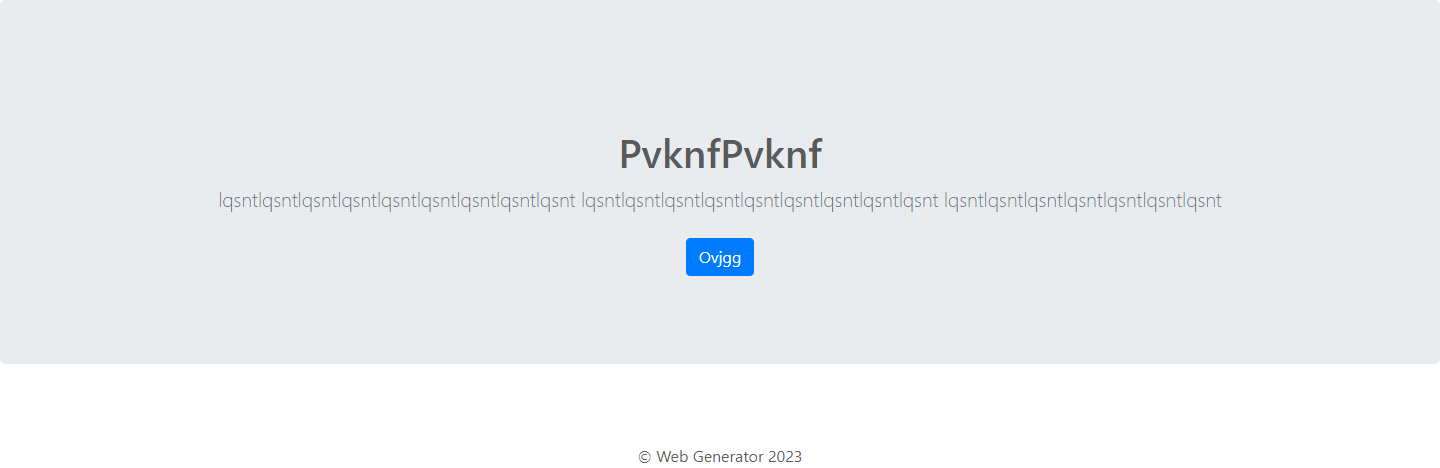
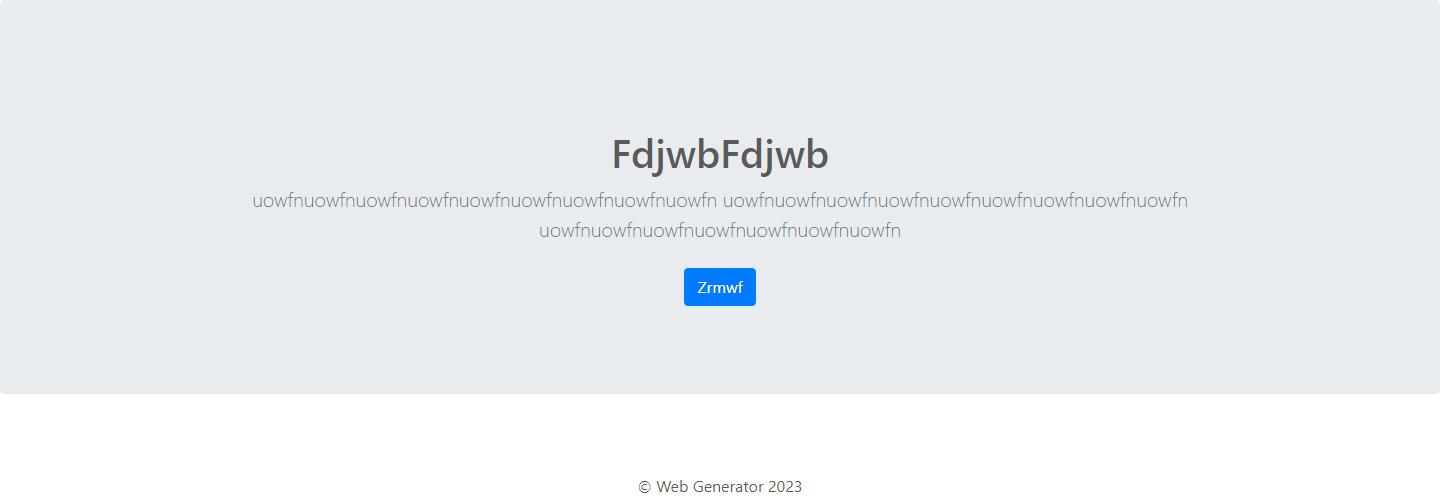
update landing

diff --git a/dataset/landing-samples/8.html b/dataset/landing-samples/8.html
@@ -75,16 +75,16 @@ body {
 <div class="row">
 <div class="col-md-4">
 <div class="card mb-4 shadow-sm">
-<svg class="bd-placeholder-img card-img-top" width="100%" height="225" xmlns="http://www.w3.org/2000/svg" role="img" aria-label="Placeholder: Thumbnail" preserveAspectRatio="xMidYMid slice" focusable="false"><title>Thumbnail</title><rect width="100%" height="100%" fill="#55595c"></rect><text x="50%" y="50%" fill="#eceeef" dy=".3em">Zcgrl</text></svg>
+<svg class="bd-placeholder-img card-img-top" width="100%" height="225" xmlns="http://www.w3.org/2000/svg" role="img" aria-label="Placeholder: Thumbnail" preserveAspectRatio="xMidYMid slice" focusable="false"><title>Thumbnail</title><rect width="100%" height="100%" fill="#55595c"></rect><text x="50%" y="50%" fill="#eceeef" dy=".3em">Uefis</text></svg>
 <div class="card-body">
-<p class="card-text">nhank</p>
+<p class="card-text">vqomz</p>
 <div class="d-flex justify-content-between align-items-center">
 <div class="btn-group">
-<a class="btn btn-primary" href="#">Ezess &raquo;</a>
-<a class="btn btn-success" href="#">Qdvfx &raquo;</a>
+<a class="btn btn-primary" href="#">Ozizh &raquo;</a>
+<a class="btn btn-success" href="#">Ledzw &raquo;</a>
 
 </div>
-<small class="text-muted">odwxo</small>
+<small class="text-muted">dvmjy</small>
 
 </div>
 
@@ -95,16 +95,16 @@ body {
 </div>
 <div class="col-md-4">
 <div class="card mb-4 shadow-sm">
-<svg class="bd-placeholder-img card-img-top" width="100%" height="225" xmlns="http://www.w3.org/2000/svg" role="img" aria-label="Placeholder: Thumbnail" preserveAspectRatio="xMidYMid slice" focusable="false"><title>Thumbnail</title><rect width="100%" height="100%" fill="#55595c"></rect><text x="50%" y="50%" fill="#eceeef" dy=".3em">Edose</text></svg>
+<svg class="bd-placeholder-img card-img-top" width="100%" height="225" xmlns="http://www.w3.org/2000/svg" role="img" aria-label="Placeholder: Thumbnail" preserveAspectRatio="xMidYMid slice" focusable="false"><title>Thumbnail</title><rect width="100%" height="100%" fill="#55595c"></rect><text x="50%" y="50%" fill="#eceeef" dy=".3em">Mkbky</text></svg>
 <div class="card-body">
-<p class="card-text">gbbhp</p>
+<p class="card-text">nnvgh</p>
 <div class="d-flex justify-content-between align-items-center">
 <div class="btn-group">
-<a class="btn btn-primary" href="#">Issyx &raquo;</a>
-<a class="btn btn-success" href="#">Jvnut &raquo;</a>
+<a class="btn btn-primary" href="#">Eytpo &raquo;</a>
+<a class="btn btn-success" href="#">Vekqy &raquo;</a>
 
 </div>
-<small class="text-muted">vbovz</small>
+<small class="text-muted">xtysd</small>
 
 </div>
 
@@ -115,16 +115,16 @@ body {
 </div>
 <div class="col-md-4">
 <div class="card mb-4 shadow-sm">
-<svg class="bd-placeholder-img card-img-top" width="100%" height="225" xmlns="http://www.w3.org/2000/svg" role="img" aria-label="Placeholder: Thumbnail" preserveAspectRatio="xMidYMid slice" focusable="false"><title>Thumbnail</title><rect width="100%" height="100%" fill="#55595c"></rect><text x="50%" y="50%" fill="#eceeef" dy=".3em">Vyiwb</text></svg>
+<svg class="bd-placeholder-img card-img-top" width="100%" height="225" xmlns="http://www.w3.org/2000/svg" role="img" aria-label="Placeholder: Thumbnail" preserveAspectRatio="xMidYMid slice" focusable="false"><title>Thumbnail</title><rect width="100%" height="100%" fill="#55595c"></rect><text x="50%" y="50%" fill="#eceeef" dy=".3em">Cyxts</text></svg>
 <div class="card-body">
-<p class="card-text">uyzgh</p>
+<p class="card-text">jquiy</p>
 <div class="d-flex justify-content-between align-items-center">
 <div class="btn-group">
-<a class="btn btn-primary" href="#">Svdrq &raquo;</a>
-<a class="btn btn-success" href="#">Zykbn &raquo;</a>
+<a class="btn btn-primary" href="#">Guqse &raquo;</a>
+<a class="btn btn-success" href="#">Qhtyn &raquo;</a>
 
 </div>
-<small class="text-muted">dhisi</small>
+<small class="text-muted">kgsdp</small>
 
 </div>
 

diff --git a/dataset/landing-samples/4.html b/dataset/landing-samples/4.html
@@ -84,9 +84,9 @@ body {
  </svg>
 <div class="container">
  <div class="carousel-caption text-left">
- <h1>Dubdm</h1>
- <p>Dubdm</p>
- <p><a class="btn btn-lg btn-primary" href="#">Dubdm</a></p>
+ <h1>Zjuoz</h1>
+ <p>Zjuoz</p>
+ <p><a class="btn btn-lg btn-primary" href="#">Zjuoz</a></p>
  </div>
  </div>
  </div>
@@ -98,9 +98,9 @@ body {
         </svg>
 <div class="container">
   <div class="carousel-caption">
-     <h1>Dubdm</h1>
-     <p>Dubdm</p>
-     <p><a class="btn btn-lg btn-primary" href="#">Dubdm</a></p>
+     <h1>Zjuoz</h1>
+     <p>Zjuoz</p>
+     <p><a class="btn btn-lg btn-primary" href="#">Zjuoz</a></p>
  </div>
         </div>
     </div>
@@ -112,20 +112,20 @@ body {
         </svg>
 <div class="container">
  <div class="carousel-caption text-right">
-     <h1>Dubdm</h1>
-     <p>Dubdm</p>
- <p><a class="btn btn-lg btn-primary" href="#">Dubdm</a></p>
+     <h1>Zjuoz</h1>
+     <p>Zjuoz</p>
+ <p><a class="btn btn-lg btn-primary" href="#">Zjuoz</a></p>
 </div>
 </div>
  </div>
 </div>
 <button class="carousel-control-prev" type="button" data-target="#myCarousel" data-slide="prev">
     <span class="carousel-control-prev-icon" aria-hidden="true"></span>
-    <span class="sr-only">Dubdm</span>
+    <span class="sr-only">Zjuoz</span>
 </button>
 <button class="carousel-control-next" type="button" data-target="#myCarousel" data-slide="next">
     <span class="carousel-control-next-icon" aria-hidden="true"></span>
-    <span class="sr-only">Dubdm</span>
+    <span class="sr-only">Zjuoz</span>
 </button>
 </div>
 

diff --git a/dataset/landing-samples/10.html b/dataset/landing-samples/10.html
@@ -73,17 +73,17 @@ body {
 <div class="card-deck mb-3 text-center">
 <div class="col-md-4">
 <svg class="bd-placeholder-img bd-placeholder-img-lg featurette-image img-fluid mx-auto" width="500" height="500" xmlns="http://www.w3.org/2000/svg" role="img" aria-label="Placeholder: 500x500" preserveAspectRatio="xMidYMid slice" focusable="false"><title>Placeholder</title><rect width="100%" height="100%" fill="#eee"/><text x="50%" y="50%" fill="#aaa" dy=".3em">500x500</text></svg>
-<h3>Bytjb</h3>
+<h3>Cgxbx</h3>
 
 </div>
 <div class="col-md-4">
 <svg class="bd-placeholder-img bd-placeholder-img-lg featurette-image img-fluid mx-auto" width="500" height="500" xmlns="http://www.w3.org/2000/svg" role="img" aria-label="Placeholder: 500x500" preserveAspectRatio="xMidYMid slice" focusable="false"><title>Placeholder</title><rect width="100%" height="100%" fill="#eee"/><text x="50%" y="50%" fill="#aaa" dy=".3em">500x500</text></svg>
-<h3>Bxdkr</h3>
+<h3>Kmlbx</h3>
 
 </div>
 <div class="col-md-4">
 <svg class="bd-placeholder-img bd-placeholder-img-lg featurette-image img-fluid mx-auto" width="500" height="500" xmlns="http://www.w3.org/2000/svg" role="img" aria-label="Placeholder: 500x500" preserveAspectRatio="xMidYMid slice" focusable="false"><title>Placeholder</title><rect width="100%" height="100%" fill="#eee"/><text x="50%" y="50%" fill="#aaa" dy=".3em">500x500</text></svg>
-<h3>Uasea</h3>
+<h3>Gdyec</h3>
 
 </div>
 

diff --git a/dataset/landing-samples/5.html b/dataset/landing-samples/5.html
@@ -73,27 +73,27 @@ body {
 <div class="row">
 <div class="col-md-4">
 <div class="text-center">
-<h2>Vsovp</h2>
-<p>Pdutn</p>
-<a class="btn btn-danger" href="#">Olwyu &raquo;</a>
+<h2>Cahtp</h2>
+<p>Qdith</p>
+<a class="btn btn-danger" href="#">Lmjrc &raquo;</a>
 
 </div>
 
 </div>
 <div class="col-md-4">
 <div class="text-center">
-<h2>Mymmq</h2>
-<p>Zzlna</p>
-<a class="btn btn-danger" href="#">Kwmrm &raquo;</a>
+<h2>Rjvaw</h2>
+<p>Xbewm</p>
+<a class="btn btn-danger" href="#">Lkbas &raquo;</a>
 
 </div>
 
 </div>
 <div class="col-md-4">
 <div class="text-center">
-<h2>Yhrfp</h2>
-<p>Bxkhv</p>
-<a class="btn btn-danger" href="#">Lytjo &raquo;</a>
+<h2>Rfaqi</h2>
+<p>Sssej</p>
+<a class="btn btn-danger" href="#">Ypmqf &raquo;</a>
 
 </div>
 
@@ -102,6 +102,7 @@ body {
 </div>
 
 </div>
+<br>
 
 </main>
 <footer class="footer-copyright text-center pt-5">© Web Generator 2023</footer>

diff --git a/dataset/landing-samples/7.html b/dataset/landing-samples/7.html
@@ -71,12 +71,12 @@ body {
 <main class="flex-shrink-0">
 <section class="jumbotron text-center">
 <div class="container">
-<h1 class="jumbotron-heading">PvknfPvknf</h1>
-<p class="lead text-muted">lqsntlqsntlqsntlqsntlqsntlqsntlqsntlqsntlqsnt
-lqsntlqsntlqsntlqsntlqsntlqsntlqsntlqsntlqsnt
-lqsntlqsntlqsntlqsntlqsntlqsntlqsnt</p>
+<h1 class="jumbotron-heading">JhgyzJhgyz</h1>
+<p class="lead text-muted">frdkkfrdkkfrdkkfrdkkfrdkkfrdkkfrdkkfrdkkfrdkk
+frdkkfrdkkfrdkkfrdkkfrdkkfrdkkfrdkkfrdkkfrdkk
+frdkkfrdkkfrdkkfrdkkfrdkkfrdkkfrdkk</p>
 <p>
-<a class="btn btn-primary my-2" href="#">Ovjgg</a>
+<a class="btn btn-primary my-2" href="#">Ksfxb</a>
 
 </p>
 

diff --git a/dataset/landing-samples/6.html b/dataset/landing-samples/6.html
@@ -72,10 +72,10 @@ body {
 <div class="container">
 <section class="jumbotron text-center">
 <div class="container">
-<h1>Jwfvj</h1>
-<p class="lead">Yzkzs</p>
-<a class="btn btn-primary" href="#">Ydykx &raquo;</a>
-<a class="btn btn-secondary" href="#">Yxrsa &raquo;</a>
+<h1>Kfkca</h1>
+<p class="lead">Vtgdj</p>
+<a class="btn btn-primary" href="#">Vpxzf &raquo;</a>
+<a class="btn btn-secondary" href="#">Yrygs &raquo;</a>
 
 </div>
 

diff --git a/dataset/landing-samples/2.html b/dataset/landing-samples/2.html
@@ -86,20 +86,6 @@ body {
 </div>
 
 </div>
-<div class="col-lg-6">
-<div class="position-relative mb-5 mb-lg-0">
-<img class="img-fluid rounded-3 mb-3" src="https://dummyimage.com/600x400/343a40/6c757d" alt="..." />
-
-</div>
-
-</div>
-<div class="col-lg-6">
-<div class="position-relative">
-<img class="img-fluid rounded-3 mb-3" src="https://dummyimage.com/600x400/343a40/6c757d" alt="..." />
-
-</div>
-
-</div>
 
 </div>
 

diff --git a/dataset/landing-samples/11.html b/dataset/landing-samples/11.html
@@ -73,7 +73,7 @@ body {
 <div class="col-md-5 p-lg-5 mx-auto my-5">
 <h1 class="display-4 font-weight-normal">Punny headline</h1>
 <p class="lead font-weight-normal">And an even wittier subheading to boot. Jumpstart your marketing efforts with this example based on Apple's marketing pages.</p>
-<a class="btn btn-dark" href="#">Kfoxk &raquo;</a>
+<a class="btn btn-dark" href="#">Jkfwt &raquo;</a>
 
 </div>
 

diff --git a/dataset/landing-samples/1.html b/dataset/landing-samples/1.html
@@ -72,9 +72,9 @@ body {
 <div class="container">
 <section class="jumbotron text-center">
 <div class="container">
-<h1>Yzrup</h1>
-<p class="lead">Ksyol</p>
-<a class="btn btn-warning" href="#">Ehidv &raquo;</a>
+<h1>Gaaax</h1>
+<p class="lead">Pnrgj</p>
+<a class="btn btn-warning" href="#">Sjsmd &raquo;</a>
 
 </div>
 

diff --git a/dataset/landing-samples/9.html b/dataset/landing-samples/9.html
@@ -72,9 +72,9 @@ body {
 <div class="container">
 <div class="jumbotron">
 <div class="container">
-<h1>Tmxpv</h1>
-<p>Uxucy</p>
-<a class="btn btn-primary" href="#">Wlahj &raquo;</a>
+<h1>Bjgno</h1>
+<p>Vsevi</p>
+<a class="btn btn-primary" href="#">Pmpkl &raquo;</a>
 
 </div>
 
